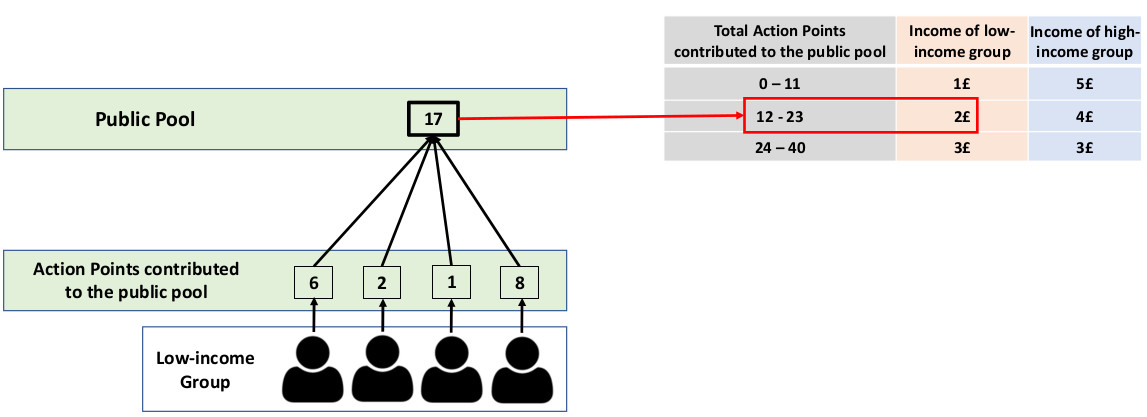
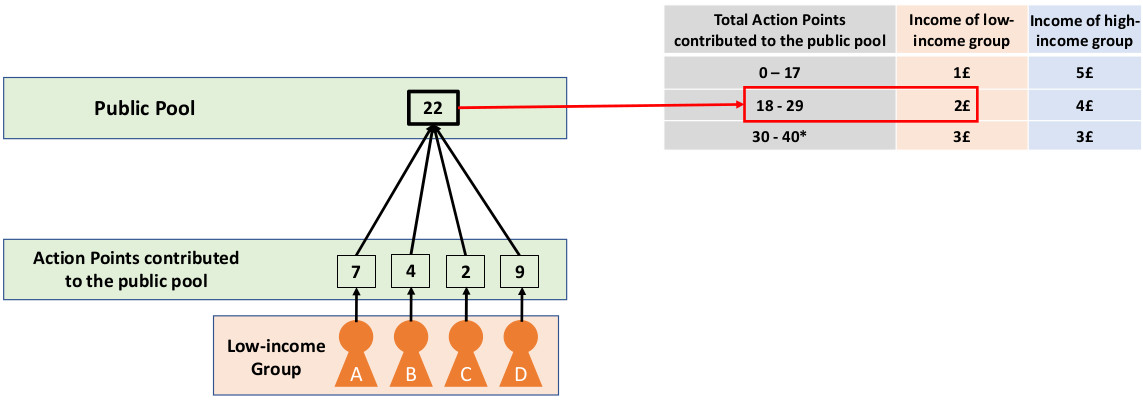
Update thresholds for payrate changes

Changed region(s): [[0.0, 0.0, 1.0, 0.99]]

diff --git a/intro/RedistributingIncomeFirst.html b/intro/RedistributingIncomeFirst.html
@@ -11,9 +11,9 @@
     <p>
         If the <b>four low-income members</b> contribute, <b>in total, from
         {{ if session.config.efficacy == 'high' }}
-            12 to 23
+            18 to 29
         {{ else }}
-            28 to 39
+            34 to 39
         {{ endif }}
             Action Points to the public pool,</b>
         the <b>income of the low-income group increases from 1£ to 2£ and the income of the high-income group
@@ -22,11 +22,11 @@
         <p>
         If the <b>four low-income members</b> contribute, <b>in total,
         {{ if session.config.efficacy == 'high' }}
-            24
+            30 or more
         {{ else }}
             40
         {{ endif }}
-            or more Action Points to the public pool,</b>
+            Action Points to the public pool,</b>
         the <b>income of the low-income group increases from 1£ to 3£ and the income of the high-income group
         decreases from 5£ to 3£.</b>
     </p>

diff --git a/intro/RedistributingIncomeSecond.html b/intro/RedistributingIncomeSecond.html
@@ -11,9 +11,9 @@
     <p>
         If the <b>four low-income members</b> contribute, <b>in total, from
         {{ if session.config.efficacy == 'high' }}
-            12 to 23
+            18 to 29
         {{ else }}
-            28 to 39
+            34 to 39
         {{ endif }}
             Action Points to the public pool,</b>
         the <b>income of the low-income group increases from 1£ to 2£ and the income of the high-income group
@@ -22,11 +22,11 @@
         <p>
         If the <b>four low-income members</b> contribute, <b>in total,
         {{ if session.config.efficacy == 'high' }}
-            24
+            30 or more
         {{ else }}
             40
         {{ endif }}
-            or more Action Points to the public pool,</b>
+            Action Points to the public pool,</b>
         the <b>income of the low-income group increases from 1£ to 3£ and the income of the high-income group
         decreases from 5£ to 3£.</b>
     </p>

diff --git a/intro/QuestionFinalIncomeResult.html b/intro/QuestionFinalIncomeResult.html
@@ -13,9 +13,9 @@
       As you can see below, the correct answer is that the final income of the low-income group is {{ correct_answer }}£
       <b>because the total contributions to the public pool are
       {{ if session.config.efficacy == 'high' }}
-        more than 12 and less than 23
+        between 18 and 29
       {{ else }}
-        less than 28
+        less than 34
       {{ endif }}
         Action Points.</b>
   </p>

diff --git a/helpers/__init__.py b/helpers/__init__.py
@@ -99,18 +99,18 @@ def adjust_payrates(subsession, C):
     total_public_pool_ap = set_contributions(subsession, C)
     logging.info("Round {}, total public pool {}".format(subsession.round_number, total_public_pool_ap))
     if subsession.session.config['efficacy'] == 'high':
-        if total_public_pool_ap <= 11:
+        if total_public_pool_ap <= 17:
             pass
-        elif 12 <= total_public_pool_ap <= 23:
+        elif 18 <= total_public_pool_ap <= 29:
             subsession.final_low_income = cu(2)
             subsession.final_high_income = cu(4)
-        elif 24 <= total_public_pool_ap:
+        elif 30 <= total_public_pool_ap:
             subsession.final_low_income = cu(3)
             subsession.final_high_income = cu(3)
     else:
-        if total_public_pool_ap <= 27:
+        if total_public_pool_ap <= 33:
             pass
-        elif 28 <= total_public_pool_ap <= 39:
+        elif 34 <= total_public_pool_ap <= 39:
             subsession.final_low_income = cu(2)
             subsession.final_high_income = cu(4)
         elif total_public_pool_ap == 40:
